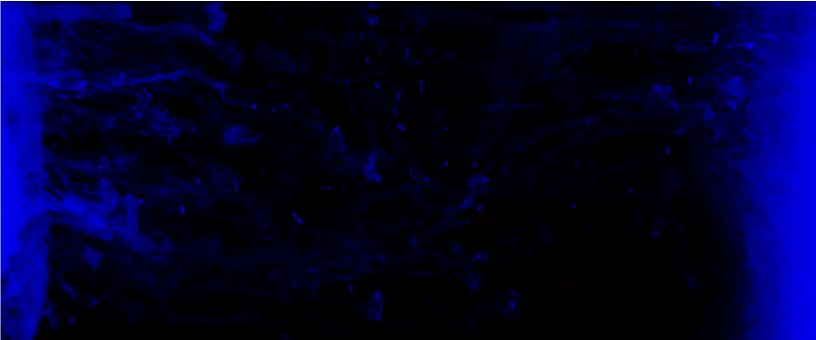
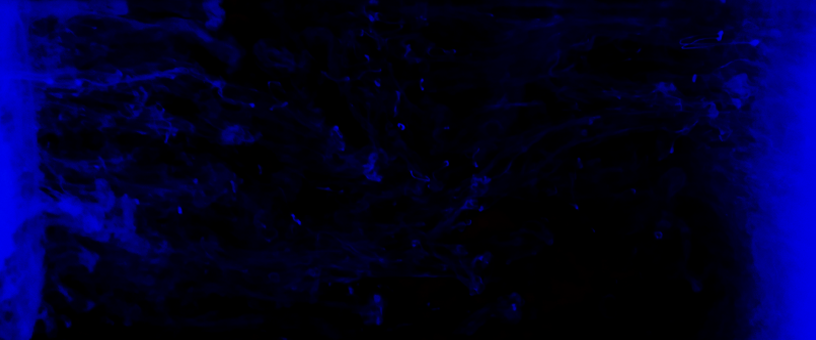
Added lighter overlay for background image to make it less distracting.  Created smaller files for all images for faster loads.

diff --git a/build/css/style.min.css b/build/css/style.min.css
@@ -1,1 +1,1 @@
-body{position:relative;padding-top:70px;background-color:navy;font-family:Abel;font-size:14px}.main-site.container{margin:-20px 20px 0;padding:0;width:auto;background-image:radial-gradient(rgba(0,0,0,.1) 50%,rgba(0,0,64,.2) 70%,rgba(0,0,128,.9) 95%),url(../../assets/images/background2.png);background-position:50%,top;background-size:contain,cover}.container{padding-left:1vw;padding-right:1vw}.jumbotron{border:1px solid #ffb96a;background-color:rgba(218,255,255,.86)}#about{padding-top:20px}img.col-xs-12{float:none}.grid-box{border:2px solid #f5f5f5;padding:10px;margin:16px;height:100%;border-radius:5px;background-color:hsla(210,5%,92%,.5)}h3{text-align:center}.col-sm-6{padding:0}img.col-xs-12{left:50%;transform:translateX(-50%)}.modal{width:95%;margin:3% auto 2%;border:1px solid #fff;background-color:#f5f5f5}.modal-dialog{width:100%;height:100%;margin:0}.modal-header{padding:0}.modal-header h4{text-align:center;padding-top:20px}.modal-header button.close{padding:5px 10px}.modal-body{height:calc(100% - 45px - 65px)}.carousel,.carousel-inner,.modal-body .item,iframe{height:100%}iframe{width:100%}.item.one .click-box a{padding:0 5px}.around-web{background-image:linear-gradient(rgba(0,0,0,.5),rgba(7,3,3,.5)),url(../../assets/images/drop-blueb.png);background-position:50%;background-size:cover;height:200px;width:100vw;margin:0;padding:0;color:#fff}.around-web .row{margin:0}.social{text-align:center;font-size:0}.social.col-xs-12{margin-top:29px;padding:0}.link.col-xs-1{padding:0;margin-right:2px;margin-left:2px}.social div:first-child{margin-left:calc(33.333333% - 8px)}.social a{background-color:#9fd0e0;position:relative;padding:46%;color:#ff0;border:1px solid #f5f5f5;border-radius:40%;box-sizing:content-box}.social a:hover{background-color:#c1e1f1;color:#ff8c00;border:1px solid #fff;border-radius:43%;box-shadow:0 1px 3px #fff}.social i{position:absolute;font-size:2.5rem;transform:translate(-50%,-50%)}i.fa-google-plus{font-size:2.2rem}footer{background:#000;color:#fff;text-align:center;padding:20px}footer p{margin:0;padding:0}@media screen and (min-width:768px){#about,#contact,#media,#portfolio{width:100%}.grid-box.l{margin-left:0}.grid-box.r{margin-right:0}.link.col-sm-2{padding:0;margin-right:0;margin-left:0}.social div:first-child{margin-left:16.7%}.social .link.col-sm-2{padding:10px}.social a{padding:47%}.social i{font-size:3rem}i.fa-google-plus{font-size:2.5rem}}@media screen and (min-width:792px){#about,#contact,#media,#portfolio{width:750px}}@media screen and (min-width:992px){#about,#contact,#media,#portfolio{width:100%}}@media screen and (min-width:1010px){#about,#contact,#media,#portfolio{width:970px}}@media screen and (min-width:1200px){#about,#contact,#media,#portfolio{width:100%}}@media screen and (min-width:1210px){#about,#contact,#media,#portfolio{width:1170px}}
+body{position:relative;padding-top:70px;background-color:navy;font-family:Abel;font-size:14px}.main-site.container{margin:-20px 20px 0;padding:0;width:auto;background-image:radial-gradient(rgba(230,230,255,.8) 5%,rgba(230,230,255,.85) 11%,rgba(230,230,255,.9) 95%),url(../../assets/images/background2@0.5x.png);background-position:50%,top;background-size:contain,cover}.container{padding-left:1vw;padding-right:1vw}.jumbotron{border:1px solid rgba(255,185,106,.8);background-color:hsla(0,0%,100%,.6)}#about{padding-top:20px}img.col-xs-12{float:none}.grid-box{border:2px solid #f5f5f5;padding:10px;margin:16px;height:100%;border-radius:5px;background-color:hsla(0,0%,100%,.6)}h3{text-align:center}.col-sm-6{padding:0}img.col-xs-12{left:50%;transform:translateX(-50%)}.modal{width:95%;margin:3% auto 2%;border:1px solid #fff;background-color:#f5f5f5}.modal-dialog{width:100%;height:100%;margin:0}.modal-header{padding:0}.modal-header h4{text-align:center;padding-top:20px}.modal-header button.close{padding:5px 10px}.modal-body{height:calc(100% - 45px - 65px)}.carousel,.carousel-inner,.modal-body .item,iframe{height:100%}iframe{width:100%}.item.one .click-box a{padding:0 5px}.around-web{background-image:linear-gradient(rgba(0,0,0,.5),rgba(7,3,3,.5)),url(../../assets/images/drop-blueb.png);background-position:50%;background-size:cover;height:200px;width:100vw;margin:0;padding:0;color:#fff}.around-web .row{margin:0}.social{text-align:center;font-size:0}.social.col-xs-12{margin-top:29px;padding:0}.link.col-xs-1{padding:0;margin-right:2px;margin-left:2px}.social div:first-child{margin-left:calc(33.333333% - 8px)}.social a{background-color:#9fd0e0;position:relative;padding:46%;color:#ff0;border:1px solid #f5f5f5;border-radius:40%;box-sizing:content-box}.social a:hover{background-color:#c1e1f1;color:#ff8c00;border:1px solid #fff;border-radius:43%;box-shadow:0 1px 3px #fff}.social i{position:absolute;font-size:2.5rem;transform:translate(-50%,-50%)}i.fa-google-plus{font-size:2.2rem}footer{background:#000;color:#fff;text-align:center;padding:20px}footer p{margin:0;padding:0}@media screen and (min-width:768px){.main-site.container{background-image:radial-gradient(rgba(230,230,255,.8) 5%,rgba(230,230,255,.85) 11%,rgba(230,230,255,.9) 95%),url(../../assets/images/background2.png)}#about,#contact,#media,#portfolio{width:100%}.grid-box.l{margin-left:0}.grid-box.r{margin-right:0}.link.col-sm-2{padding:0;margin-right:0;margin-left:0}.social div:first-child{margin-left:16.7%}.social .link.col-sm-2{padding:10px}.social a{padding:47%}.social i{font-size:3rem}i.fa-google-plus{font-size:2.5rem}}@media screen and (min-width:792px){#about,#contact,#media,#portfolio{width:750px}}@media screen and (min-width:992px){#about,#contact,#media,#portfolio{width:100%}}@media screen and (min-width:1010px){.main-site.container{background-image:radial-gradient(rgba(230,230,255,.8) 5%,rgba(230,230,255,.85) 11%,rgba(230,230,255,.9) 95%),url(../../assets/images/background2@2x.png)}#about,#contact,#media,#portfolio{width:970px}}@media screen and (min-width:1200px){#about,#contact,#media,#portfolio{width:100%}}@media screen and (min-width:1210px){.main-site.container{background-image:radial-gradient(rgba(230,230,255,.8) 5%,rgba(230,230,255,.85) 11%,rgba(230,230,255,.9) 95%),url(../../assets/images/background2@3x.png)}#about,#contact,#media,#portfolio{width:1170px}}

diff --git a/styles/style.css b/styles/style.css
@@ -11,11 +11,11 @@ body {
     padding: 0;
     width: auto;
     background-image: radial-gradient(
-        rgba(0, 0, 0, 0.1) 50%,
-        rgba(0, 0, 64, 0.2) 70%,
-        rgba(0, 0, 128, 0.9) 95%
+        rgba(230, 230, 255, 0.8) 5%,
+        rgba(230, 230, 255, 0.85) 11%,
+        rgba(230, 230, 255, 0.9) 95%
         ),
-        url("../../assets/images/background2.png");
+        url("../../assets/images/background2@0.5x.png");
     background-position: center, top;
     background-size: contain, cover;
 }
@@ -26,8 +26,8 @@ body {
 }
 
 .jumbotron {
-    border: 1px solid rgb(255, 185, 106);
-    background-color: rgba(218, 255, 255, 0.86);
+    border: 1px solid rgba(255, 185, 106, 0.8);
+    background-color: rgba(255, 255, 255, 0.6);
 }
 
 #about {
@@ -44,7 +44,7 @@ img.col-xs-12 {
     margin: 16px;
     height: 100%;
     border-radius: 5px;
-    background-color: rgba(234, 235, 236, 0.5);
+    background-color: rgba(255, 255, 255, 0.6);
 }
 
 h3 {
@@ -180,6 +180,14 @@ footer p {
 }
 
 @media screen and (min-width: 768px) {
+    .main-site.container {
+    background-image: radial-gradient(
+        rgba(230, 230, 255, 0.8) 5%,
+        rgba(230, 230, 255, 0.85) 11%,
+        rgba(230, 230, 255, 0.9) 95%
+        ),
+        url("../../assets/images/background2.png");
+    }
     #about,
     #portfolio,
     #contact,
@@ -246,6 +254,14 @@ footer p {
 }
 
 @media screen and (min-width: 1010px) {
+    .main-site.container {
+    background-image: radial-gradient(
+        rgba(230, 230, 255, 0.8) 5%,
+        rgba(230, 230, 255, 0.85) 11%,
+        rgba(230, 230, 255, 0.9) 95%
+        ),
+        url("../../assets/images/background2@2x.png");
+    }
     #about,
     #portfolio,
     #contact,
@@ -273,6 +289,14 @@ footer p {
 }
 
 @media screen and (min-width: 1210px) {
+    .main-site.container {
+    background-image: radial-gradient(
+        rgba(230, 230, 255, 0.8) 5%,
+        rgba(230, 230, 255, 0.85) 11%,
+        rgba(230, 230, 255, 0.9) 95%
+        ),
+        url("../../assets/images/background2@3x.png");
+    }
     #about,
     #portfolio,
     #contact,

diff --git a/build/css/style.css b/build/css/style.css
@@ -9,7 +9,7 @@ body {
   margin: -20px 20px 0;
   padding: 0;
   width: auto;
-  background-image: radial-gradient(rgba(0, 0, 0, 0.1) 50%, rgba(0, 0, 64, 0.2) 70%, rgba(0, 0, 128, 0.9) 95%), url("../../assets/images/background2.png");
+  background-image: radial-gradient(rgba(230, 230, 255, 0.8) 5%, rgba(230, 230, 255, 0.85) 11%, rgba(230, 230, 255, 0.9) 95%), url("../../assets/images/background2@0.5x.png");
   background-position: center, top;
   background-size: contain, cover; }
 
@@ -18,8 +18,8 @@ body {
   padding-right: 1vw; }
 
 .jumbotron {
-  border: 1px solid #ffb96a;
-  background-color: rgba(218, 255, 255, 0.86); }
+  border: 1px solid rgba(255, 185, 106, 0.8);
+  background-color: rgba(255, 255, 255, 0.6); }
 
 #about {
   padding-top: 20px; }
@@ -33,7 +33,7 @@ img.col-xs-12 {
   margin: 16px;
   height: 100%;
   border-radius: 5px;
-  background-color: rgba(234, 235, 236, 0.5); }
+  background-color: rgba(255, 255, 255, 0.6); }
 
 h3 {
   text-align: center; }
@@ -148,6 +148,8 @@ footer p {
   padding: 0; }
 
 @media screen and (min-width: 768px) {
+  .main-site.container {
+    background-image: radial-gradient(rgba(230, 230, 255, 0.8) 5%, rgba(230, 230, 255, 0.85) 11%, rgba(230, 230, 255, 0.9) 95%), url("../../assets/images/background2.png"); }
   #about,
   #portfolio,
   #contact,
@@ -192,6 +194,8 @@ footer p {
     width: 100%; } }
 
 @media screen and (min-width: 1010px) {
+  .main-site.container {
+    background-image: radial-gradient(rgba(230, 230, 255, 0.8) 5%, rgba(230, 230, 255, 0.85) 11%, rgba(230, 230, 255, 0.9) 95%), url("../../assets/images/background2@2x.png"); }
   #about,
   #portfolio,
   #contact,
@@ -215,6 +219,8 @@ footer p {
     width: 100%; } }
 
 @media screen and (min-width: 1210px) {
+  .main-site.container {
+    background-image: radial-gradient(rgba(230, 230, 255, 0.8) 5%, rgba(230, 230, 255, 0.85) 11%, rgba(230, 230, 255, 0.9) 95%), url("../../assets/images/background2@3x.png"); }
   #about,
   #portfolio,
   #contact,
